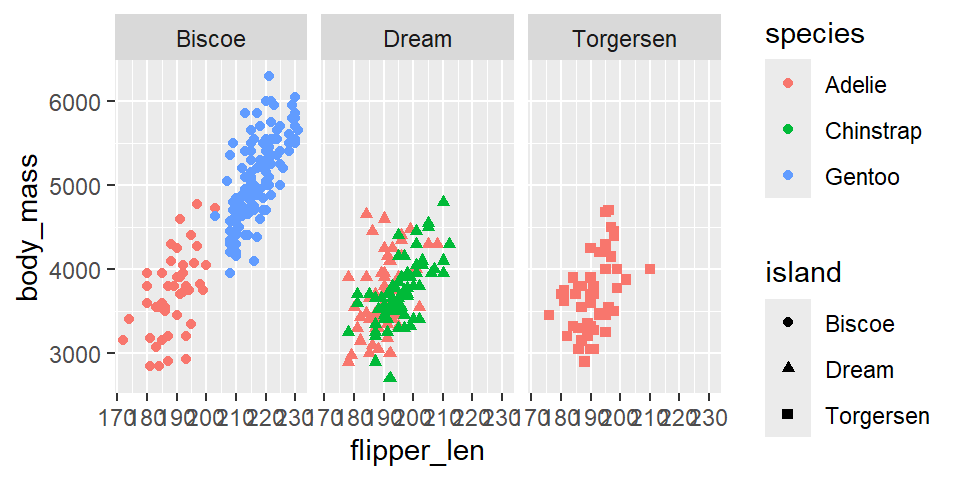
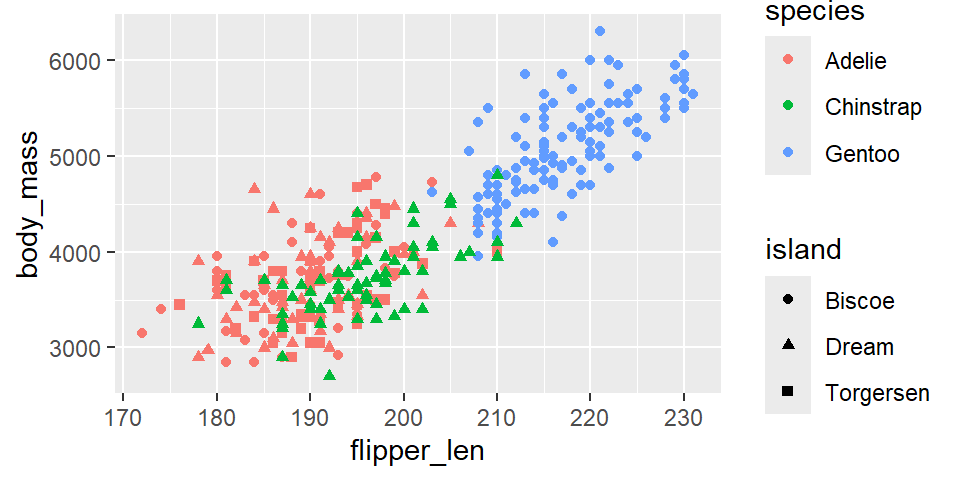
Update R visualization slides

diff --git a/R_part2.html b/R_part2.html
@@ -10,7 +10,7 @@
   <meta name="generator" content="quarto-1.9.38">
 
   <meta name="author" content="Jan Gačnik">
-  <meta name="dcterms.date" content="2026-06-16">
+  <meta name="dcterms.date" content="2026-06-17">
   <title>R workshop part 2 - visualization</title>
   <meta name="apple-mobile-web-app-capable" content="yes">
   <meta name="apple-mobile-web-app-status-bar-style" content="black-translucent">
@@ -494,7 +494,7 @@
   };
 
   // Store cell data
-  globalThis.qwebrCellDetails = [{"code":"ggplot(\n  data = penguins,\n  mapping = aes(x = flipper_len,\n                y = body_mass)\n) +\n  geom_point(mapping = aes(color = species)) +\n  geom_smooth(method = \"lm\")","id":1,"options":{"autorun":"false","classes":"webr-plot-right","comment":"","context":"interactive","dpi":72,"editor-font-scale":"0.5","editor-max-height":"","editor-quick-suggestions":"false","editor-word-wrap":"true","fig-cap":"","fig-height":5,"fig-width":7,"label":"unnamed-chunk-1","message":"true","out-height":"","out-width":"700px","output":"true","read-only":"false","results":"markup","warning":"false"}},{"code":"ggplot(penguins, aes(x = body_mass)) +\n  geom_histogram(binwidth = 200)","id":2,"options":{"autorun":"false","classes":"","comment":"","context":"interactive","dpi":72,"echo":"true","editor-font-scale":"0.5","editor-max-height":"","editor-quick-suggestions":"false","editor-word-wrap":"true","fig-align":"center","fig-cap":"","fig-height":"2","fig-width":"6","label":"unnamed-chunk-2","message":"true","out-height":"200px","out-width":"600px","output":"true","read-only":"false","results":"markup","warning":"false"}},{"code":"ggplot(penguins, aes(x = body_mass)) +\n  geom_density() # We can also use the orientation parameter","id":3,"options":{"autorun":"false","classes":"","comment":"","context":"interactive","dpi":72,"echo":"true","editor-font-scale":"0.5","editor-max-height":"","editor-quick-suggestions":"false","editor-word-wrap":"true","fig-align":"center","fig-cap":"","fig-height":"2","fig-width":"6","label":"unnamed-chunk-3","message":"true","out-height":"200px","out-width":"600px","output":"true","read-only":"false","results":"markup","warning":"false"}},{"code":"ggplot(penguins, aes(x = species,\n                     y = body_mass)) +\n  geom_boxplot()\n# We can transform how boxplot looks,\n# e.g., with outlier.shape = NA or notch = TRUE, etc.","id":4,"options":{"autorun":"false","classes":"","comment":"","context":"interactive","dpi":72,"echo":"true","editor-font-scale":"0.5","editor-max-height":"","editor-quick-suggestions":"false","editor-word-wrap":"true","fig-align":"center","fig-cap":"","fig-height":"3","fig-width":"6","label":"unnamed-chunk-4","message":"true","out-height":"300px","out-width":"600px","output":"true","read-only":"false","results":"markup","warning":"false"}},{"code":"ggplot(penguins, aes(x = body_mass,\n                     color = species)) +\n  geom_density()\n# We can transform how density plot looks,\n# e.g., alpha = 0.5, etc.","id":5,"options":{"autorun":"false","classes":"webr-plot-right","comment":"","context":"interactive","dpi":72,"echo":"true","editor-font-scale":"0.5","editor-max-height":"","editor-quick-suggestions":"false","editor-word-wrap":"true","fig-align":"center","fig-cap":"","fig-height":"3","fig-width":"6","label":"unnamed-chunk-5","message":"true","out-height":"300px","out-width":"600px","output":"true","read-only":"false","results":"markup","warning":"false"}}];
+  globalThis.qwebrCellDetails = [{"code":"ggplot(\n  data = penguins,\n  mapping = aes(x = flipper_len,\n                y = body_mass)\n) +\n  geom_point(mapping = aes(color = species)) +\n  geom_smooth(method = \"lm\")","id":1,"options":{"autorun":"false","classes":"webr-plot-right","comment":"","context":"interactive","dpi":72,"editor-font-scale":"0.5","editor-max-height":"","editor-quick-suggestions":"false","editor-word-wrap":"true","fig-cap":"","fig-height":5,"fig-width":7,"label":"unnamed-chunk-1","message":"true","out-height":"","out-width":"700px","output":"true","read-only":"false","results":"markup","warning":"false"}},{"code":"ggplot(penguins, aes(x = body_mass)) +\n  geom_histogram(binwidth = 200)","id":2,"options":{"autorun":"false","classes":"","comment":"","context":"interactive","dpi":72,"echo":"true","editor-font-scale":"0.5","editor-max-height":"","editor-quick-suggestions":"false","editor-word-wrap":"true","fig-align":"center","fig-cap":"","fig-height":"2","fig-width":"6","label":"unnamed-chunk-2","message":"true","out-height":"200px","out-width":"600px","output":"true","read-only":"false","results":"markup","warning":"false"}},{"code":"ggplot(penguins, aes(x = species,\n                     y = body_mass)) +\n  geom_boxplot()\n# We can transform how boxplot looks,\n# e.g., with outlier.shape = NA or notch = TRUE, etc.","id":3,"options":{"autorun":"false","classes":"","comment":"","context":"interactive","dpi":72,"echo":"true","editor-font-scale":"0.5","editor-max-height":"","editor-quick-suggestions":"false","editor-word-wrap":"true","fig-align":"center","fig-cap":"","fig-height":"3","fig-width":"6","label":"unnamed-chunk-3","message":"true","out-height":"300px","out-width":"600px","output":"true","read-only":"false","results":"markup","warning":"false"}},{"code":"ggplot(penguins, aes(x = body_mass,\n                     color = species)) +\n  geom_density()\n# We can transform how density plot looks,\n# e.g., alpha = 0.5, etc.","id":4,"options":{"autorun":"false","classes":"webr-plot-right","comment":"","context":"interactive","dpi":72,"echo":"true","editor-font-scale":"0.5","editor-max-height":"","editor-quick-suggestions":"false","editor-word-wrap":"true","fig-align":"center","fig-cap":"","fig-height":"3","fig-width":"6","label":"unnamed-chunk-4","message":"true","out-height":"300px","out-width":"600px","output":"true","read-only":"false","results":"markup","warning":"false"}}];
 
   </script>
   <script type="module">
@@ -2047,7 +2047,7 @@ Jan Gačnik
 </div>
 </div>
 
-  <p class="date">2026-06-16</p>
+  <p class="date">2026-06-17</p>
 </section>
 <section id="visualization-in-r" class="slide level2">
 <h2>Visualization in R</h2>
@@ -2533,8 +2533,17 @@ Jan Gačnik
 </ul>
 </div>
 <div class="fragment" data-fragment-index="1" style="font-size: 110%;">
-<div id="qwebr-insertion-location-3"></div>
-<noscript>Please enable JavaScript to experience the dynamic code cell content on this page.</noscript>
+<div class="cell" data-layout-align="center">
+<div class="code-copy-outer-scaffold"><div class="sourceCode cell-code" id="cb12"><pre class="sourceCode numberSource r number-lines code-with-copy"><code class="sourceCode r"><span id="cb12-1"><a href=""></a><span class="fu">ggplot</span>(penguins, <span class="fu">aes</span>(<span class="at">x =</span> body_mass)) <span class="sc">+</span></span>
+<span id="cb12-2"><a href=""></a>  <span class="fu">geom_density</span>()</span></code></pre></div><button title="Copy to Clipboard" class="code-copy-button"><i class="bi"></i></button></div>
+<div class="cell-output-display">
+<div class="quarto-figure quarto-figure-center">
+<figure>
+<p><img data-src="R_part2_files/figure-revealjs/unnamed-chunk-20-1.png" class="quarto-figure quarto-figure-center" width="576"></p>
+</figure>
+</div>
+</div>
+</div>
 </div>
 </section>
 <section id="visualizing-relationships" class="slide level2">
@@ -2567,7 +2576,7 @@ Jan Gačnik
 <p>Let’s make a simple boxplot using the <kbd>geom_boxplot()</kbd> geometry</p>
 </div>
 <div style="font-size: 110%;">
-<div id="qwebr-insertion-location-4"></div>
+<div id="qwebr-insertion-location-3"></div>
 <noscript>Please enable JavaScript to experience the dynamic code cell content on this page.</noscript>
 </div>
 </section>
@@ -2587,7 +2596,7 @@ Jan Gačnik
 </ul>
 </div>
 <div style="font-size: 100%;">
-<div id="qwebr-insertion-location-5"></div>
+<div id="qwebr-insertion-location-4"></div>
 <noscript>Please enable JavaScript to experience the dynamic code cell content on this page.</noscript>
 </div>
 </section>
@@ -2603,13 +2612,13 @@ Jan Gačnik
 </div>
 <div class="fragment" data-fragment-index="1" style="font-size: 100%;">
 <div class="cell" data-layout-align="center">
-<div class="code-copy-outer-scaffold"><div class="sourceCode cell-code" id="cb12"><pre class="sourceCode numberSource r number-lines code-with-copy"><code class="sourceCode r"><span id="cb12-1"><a href=""></a><span class="fu">ggplot</span>(penguins, <span class="fu">aes</span>(<span class="at">x =</span> flipper_len,</span>
-<span id="cb12-2"><a href=""></a>                     <span class="at">y =</span> body_mass)) <span class="sc">+</span></span>
-<span id="cb12-3"><a href=""></a>  <span class="fu">geom_point</span>()</span></code></pre></div><button title="Copy to Clipboard" class="code-copy-button"><i class="bi"></i></button></div>
+<div class="code-copy-outer-scaffold"><div class="sourceCode cell-code" id="cb13"><pre class="sourceCode numberSource r number-lines code-with-copy"><code class="sourceCode r"><span id="cb13-1"><a href=""></a><span class="fu">ggplot</span>(penguins, <span class="fu">aes</span>(<span class="at">x =</span> flipper_len,</span>
+<span id="cb13-2"><a href=""></a>                     <span class="at">y =</span> body_mass)) <span class="sc">+</span></span>
+<span id="cb13-3"><a href=""></a>  <span class="fu">geom_point</span>()</span></code></pre></div><button title="Copy to Clipboard" class="code-copy-button"><i class="bi"></i></button></div>
 <div class="cell-output-display">
 <div class="quarto-figure quarto-figure-center">
 <figure>
-<p><img data-src="R_part2_files/figure-revealjs/unnamed-chunk-20-1.png" class="quarto-figure quarto-figure-center" width="480"></p>
+<p><img data-src="R_part2_files/figure-revealjs/unnamed-chunk-21-1.png" class="quarto-figure quarto-figure-center" width="480"></p>
 </figure>
 </div>
 </div>
@@ -2622,22 +2631,22 @@ Jan Gačnik
 <p>We can incorporate more variables into the plot by mapping them to additional aesthetics, for example <kbd>color = species</kbd> and <kbd>shape = island</kbd></p>
 </div>
 <div class="columns">
-<div class="column" style="width:50%;">
+<div class="column" style="width:53%;">
 <div class="fragment" data-fragment-index="1" style="font-size: 90%;">
 <div class="cell">
-<div class="code-copy-outer-scaffold"><div class="sourceCode cell-code" id="cb13"><pre class="sourceCode numberSource r number-lines code-with-copy"><code class="sourceCode r"><span id="cb13-1"><a href=""></a><span class="fu">ggplot</span>(penguins, <span class="fu">aes</span>(<span class="at">x =</span> flipper_len,</span>
-<span id="cb13-2"><a href=""></a>                     <span class="at">y =</span> body_mass)) <span class="sc">+</span></span>
-<span id="cb13-3"><a href=""></a>  <span class="fu">geom_point</span>(<span class="fu">aes</span>(<span class="at">color =</span> species,</span>
-<span id="cb13-4"><a href=""></a>                   <span class="at">shape =</span> island))</span></code></pre></div><button title="Copy to Clipboard" class="code-copy-button"><i class="bi"></i></button></div>
+<div class="code-copy-outer-scaffold"><div class="sourceCode cell-code" id="cb14"><pre class="sourceCode numberSource r number-lines code-with-copy"><code class="sourceCode r"><span id="cb14-1"><a href=""></a><span class="fu">ggplot</span>(penguins, <span class="fu">aes</span>(<span class="at">x =</span> flipper_len,</span>
+<span id="cb14-2"><a href=""></a>                     <span class="at">y =</span> body_mass)) <span class="sc">+</span></span>
+<span id="cb14-3"><a href=""></a>  <span class="fu">geom_point</span>(<span class="fu">aes</span>(<span class="at">color =</span> species,</span>
+<span id="cb14-4"><a href=""></a>                   <span class="at">shape =</span> island))</span></code></pre></div><button title="Copy to Clipboard" class="code-copy-button"><i class="bi"></i></button></div>
 </div>
 </div>
-</div><div class="column" style="width:50%;">
+</div><div class="column" style="width:47%;">
 <div class="fragment" data-fragment-index="1" style="font-size: 90%;">
 <div class="cell" data-layout-align="right">
 <div class="cell-output-display">
 <div class="quarto-figure quarto-figure-right">
 <figure>
-<p><img data-src="R_part2_files/figure-revealjs/unnamed-chunk-22-1.png" class="quarto-figure quarto-figure-right" width="480"></p>
+<p><img data-src="R_part2_files/figure-revealjs/unnamed-chunk-23-1.png" class="quarto-figure quarto-figure-right" width="480"></p>
 </figure>
 </div>
 </div>
@@ -2660,29 +2669,136 @@ Jan Gačnik
 </ul>
 </div>
 <div class="columns">
-<div class="column" style="width:40%;">
-<div class="fragment" data-fragment-index="2" style="font-size: 90%;">
+<div class="column" style="width:50%;">
+<div class="fragment" data-fragment-index="2" style="font-size: 85%;">
 <div class="cell">
-<div class="code-copy-outer-scaffold"><div class="sourceCode cell-code" id="cb14"><pre class="sourceCode numberSource r number-lines code-with-copy"><code class="sourceCode r"><span id="cb14-1"><a href=""></a><span class="fu">ggplot</span>(penguins, <span class="fu">aes</span>(<span class="at">x =</span> flipper_len,</span>
-<span id="cb14-2"><a href=""></a>                     <span class="at">y =</span> body_mass)) <span class="sc">+</span></span>
-<span id="cb14-3"><a href=""></a>  <span class="fu">geom_point</span>(<span class="fu">aes</span>(<span class="at">color =</span> species,</span>
-<span id="cb14-4"><a href=""></a>                 <span class="at">shape =</span> island)) <span class="sc">+</span></span>
-<span id="cb14-5"><a href=""></a>  <span class="fu">facet_wrap</span>(<span class="sc">~</span>island)</span></code></pre></div><button title="Copy to Clipboard" class="code-copy-button"><i class="bi"></i></button></div>
+<div class="code-copy-outer-scaffold"><div class="sourceCode cell-code" id="cb15"><pre class="sourceCode numberSource r number-lines code-with-copy"><code class="sourceCode r"><span id="cb15-1"><a href=""></a><span class="fu">ggplot</span>(penguins, <span class="fu">aes</span>(<span class="at">x =</span> flipper_len,</span>
+<span id="cb15-2"><a href=""></a>                     <span class="at">y =</span> body_mass)) <span class="sc">+</span></span>
+<span id="cb15-3"><a href=""></a>  <span class="fu">geom_point</span>(<span class="fu">aes</span>(<span class="at">color =</span> species,</span>
+<span id="cb15-4"><a href=""></a>                 <span class="at">shape =</span> species)) <span class="sc">+</span></span>
+<span id="cb15-5"><a href=""></a>  <span class="fu">facet_wrap</span>(<span class="sc">~</span> island)</span></code></pre></div><button title="Copy to Clipboard" class="code-copy-button"><i class="bi"></i></button></div>
 </div>
 </div>
-</div><div class="column" style="width:60%;">
-<div class="fragment" data-fragment-index="3" style="font-size: 90%;">
+</div><div class="column" style="width:50%;">
+<div class="fragment" data-fragment-index="3">
 <div class="cell" data-layout-align="right">
 <div class="cell-output-display">
 <div class="quarto-figure quarto-figure-right">
 <figure>
-<p><img data-src="R_part2_files/figure-revealjs/unnamed-chunk-24-1.png" class="quarto-figure quarto-figure-right" width="480"></p>
+<p><img data-src="R_part2_files/figure-revealjs/unnamed-chunk-25-1.png" class="quarto-figure quarto-figure-right" width="480"></p>
 </figure>
 </div>
 </div>
 </div>
 </div>
 </div></div>
+<div class="fragment" data-fragment-index="4" style="font-size: 65%;">
+<p>The x axis text overlaps, homework - try solving this by adjusting <kbd>theme()</kbd> parameters</p>
+</div>
+</section>
+<section id="visualizing-relationships-faceting-1" class="slide level2">
+<h2>Visualizing relationships: faceting</h2>
+<div style="font-size: 80%;">
+<p>Splitting the plot into multiple subplots - <strong>faceting</strong> - can be very useful to improve readability of plots</p>
+</div>
+<div class="fragment" data-fragment-index="1" style="font-size: 65%;">
+<ul>
+<li>Faceting by a <em>two variables</em> is done using <kbd>facet_grid()</kbd> — specify the 2 variables using the formula <kbd>variable1 ~ variable2</kbd>.</li>
+</ul>
+</div>
+<div class="columns">
+<div class="column" style="width:50%;">
+<div class="fragment" data-fragment-index="2" style="font-size: 85%;">
+<div class="cell">
+<div class="code-copy-outer-scaffold"><div class="sourceCode cell-code" id="cb16"><pre class="sourceCode numberSource r number-lines code-with-copy"><code class="sourceCode r"><span id="cb16-1"><a href=""></a><span class="fu">ggplot</span>(penguins, <span class="fu">aes</span>(<span class="at">x =</span> flipper_len,</span>
+<span id="cb16-2"><a href=""></a>                     <span class="at">y =</span> body_mass)) <span class="sc">+</span></span>
+<span id="cb16-3"><a href=""></a>  <span class="fu">geom_point</span>(<span class="fu">aes</span>(<span class="at">color =</span> species,</span>
+<span id="cb16-4"><a href=""></a>                 <span class="at">shape =</span> species))</span>
+<span id="cb16-5"><a href=""></a>  <span class="fu">facet_wrap</span>(island <span class="sc">~</span> sex)</span></code></pre></div><button title="Copy to Clipboard" class="code-copy-button"><i class="bi"></i></button></div>
+</div>
+</div>
+<div class="fragment" data-fragment-index="4" style="font-size: 65%;">
+<ul>
+<li><p>The <kbd>NA</kbd> column on the plot indicates entries with missing sex data, we have to <strong>filter</strong> them out</p></li>
+<li><p>Filtering part of next presentation - <strong>data transformation</strong></p></li>
+</ul>
+</div>
+</div><div class="column" style="width:50%;">
+<div class="fragment" data-fragment-index="3">
+<div class="cell" data-layout-align="right">
+<div class="cell-output-display">
+<div class="quarto-figure quarto-figure-right">
+<figure>
+<p><img data-src="R_part2_files/figure-revealjs/unnamed-chunk-27-1.png" class="quarto-figure quarto-figure-right" width="480"></p>
+</figure>
+</div>
+</div>
+</div>
+</div>
+</div></div>
+</section>
+<section id="saving-generated-plots" class="slide level2">
+<h2>Saving generated plots</h2>
+<p>Multiple ways to do it, commonly done using <kbd>ggsave()</kbd> functon</p>
+<div style="font-size: 100%;">
+<div class="cell">
+<div class="code-copy-outer-scaffold"><div class="sourceCode cell-code" id="cb17"><pre class="sourceCode numberSource r number-lines code-with-copy"><code class="sourceCode r"><span id="cb17-1"><a href=""></a><span class="fu">ggsave</span>(<span class="at">filename =</span> <span class="st">"penguin_plot.png"</span>)</span></code></pre></div><button title="Copy to Clipboard" class="code-copy-button"><i class="bi"></i></button></div>
+</div>
+</div>
+<div class="fragment" data-fragment-index="1" style="font-size: 75%;">
+<ul>
+<li>Specifying <kbd>width</kbd>, <kbd>height</kbd>, and <kbd>units</kbd> arguments will make your plot reproducible</li>
+</ul>
+</div>
+<div class="fragment" data-fragment-index="1" style="font-size: 100%;">
+<div class="cell">
+<div class="code-copy-outer-scaffold"><div class="sourceCode cell-code" id="cb18"><pre class="sourceCode numberSource r number-lines code-with-copy"><code class="sourceCode r"><span id="cb18-1"><a href=""></a><span class="fu">ggsave</span>(<span class="at">filename =</span> <span class="st">"penguin_plot.png"</span>,</span>
+<span id="cb18-2"><a href=""></a>       <span class="at">width =</span> <span class="dv">15</span>, <span class="at">height =</span> <span class="dv">10</span>, <span class="at">units =</span> <span class="st">"cm"</span>)</span></code></pre></div><button title="Copy to Clipboard" class="code-copy-button"><i class="bi"></i></button></div>
+</div>
+</div>
+<div class="fragment" data-fragment-index="2" style="font-size: 75%;">
+<ul>
+<li>Without specifying dimensions, <kbd>ggsave()</kbd> will guess the size based on current size of your graphics device</li>
+</ul>
+</div>
+</section>
+<section id="examples-of-r-plots" class="slide level2">
+<h2>Examples of R plots</h2>
+<div style="font-size: 80%;">
+<p><em>Global Hg measurements of reactive Hg, modeled vs measured values</em> Bar plot combined with scatter plot, shapes, lines, and text labels</p>
+</div>
+
+<img data-src="figures/example_barplot.png" class="quarto-figure quarto-figure-center r-stretch" style="width:58.0%"></section>
+<section id="examples-of-r-plots-1" class="slide level2">
+<h2>Examples of R plots</h2>
+<div style="font-size: 85%;">
+<p><strong>Map plots in R</strong></p>
+</div>
+<div style="font-size: 70%;">
+<ul>
+<li><p>More control over map appearance, layers, and custom features than in QGIS/ArcGIS</p></li>
+<li><p>Requires more coding knowledge and experience to create polished maps</p></li>
+</ul>
+</div>
+<div class="fragment" data-fragment-index="1" style="font-size: 80%;">
+<p>Strontium isotope ratio map of Romania</p>
+<div class="quarto-figure quarto-figure-center">
+<figure>
+<p><img data-src="figures/example_map.png" class="quarto-figure quarto-figure-center" style="width:55.0%"></p>
+</figure>
+</div>
+</div>
+</section>
+<section id="examples-of-r-plots-2" class="slide level2">
+<h2>Examples of R plots</h2>
+<div style="font-size: 85%;">
+<p>Creativity is the limit with visualization in R</p>
+<div class="quarto-figure quarto-figure-center">
+<figure>
+<p><img data-src="figures/example_basketball.png" class="quarto-figure quarto-figure-center" style="width:55.0%"></p>
+</figure>
+</div>
+</div>
 
 </section>
     </div>